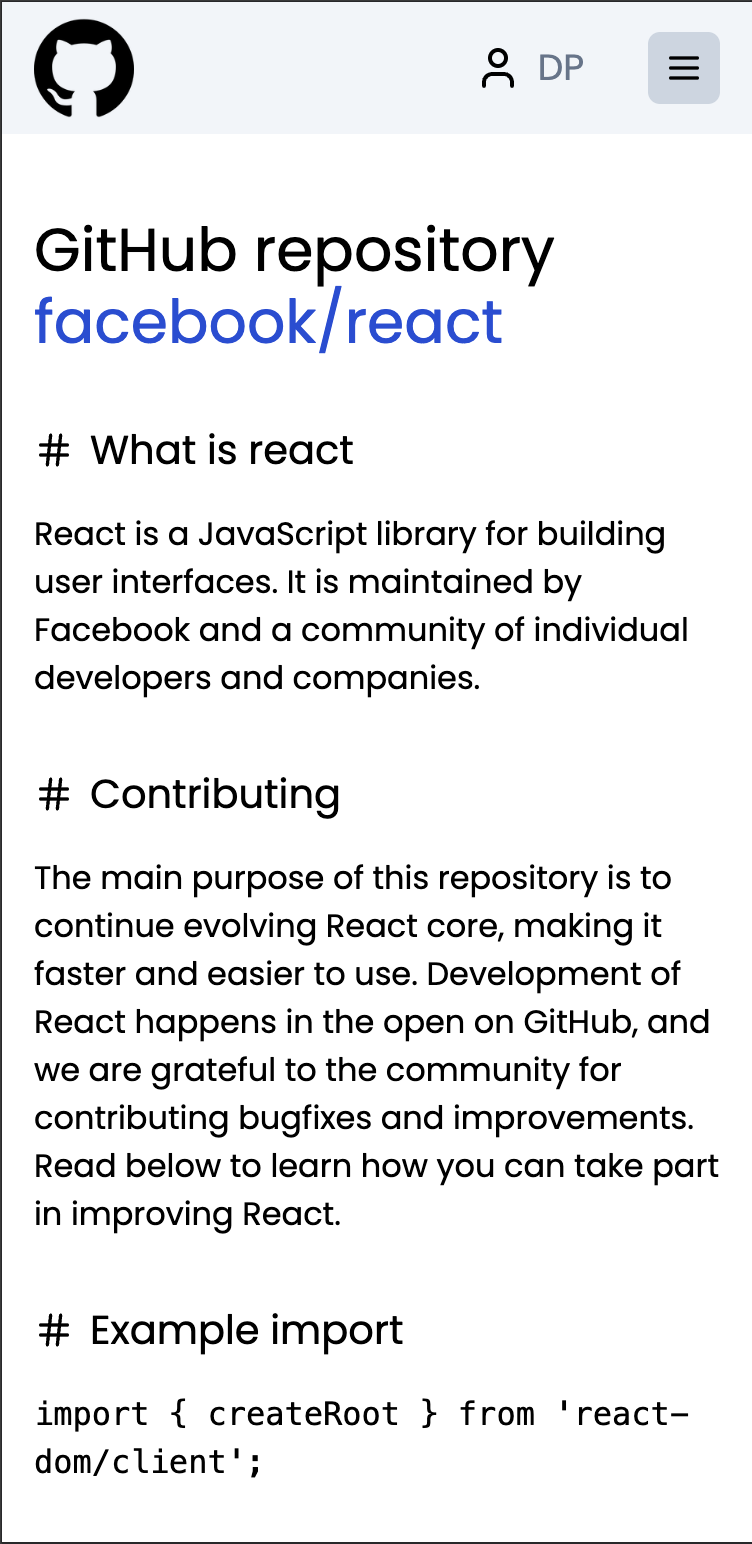
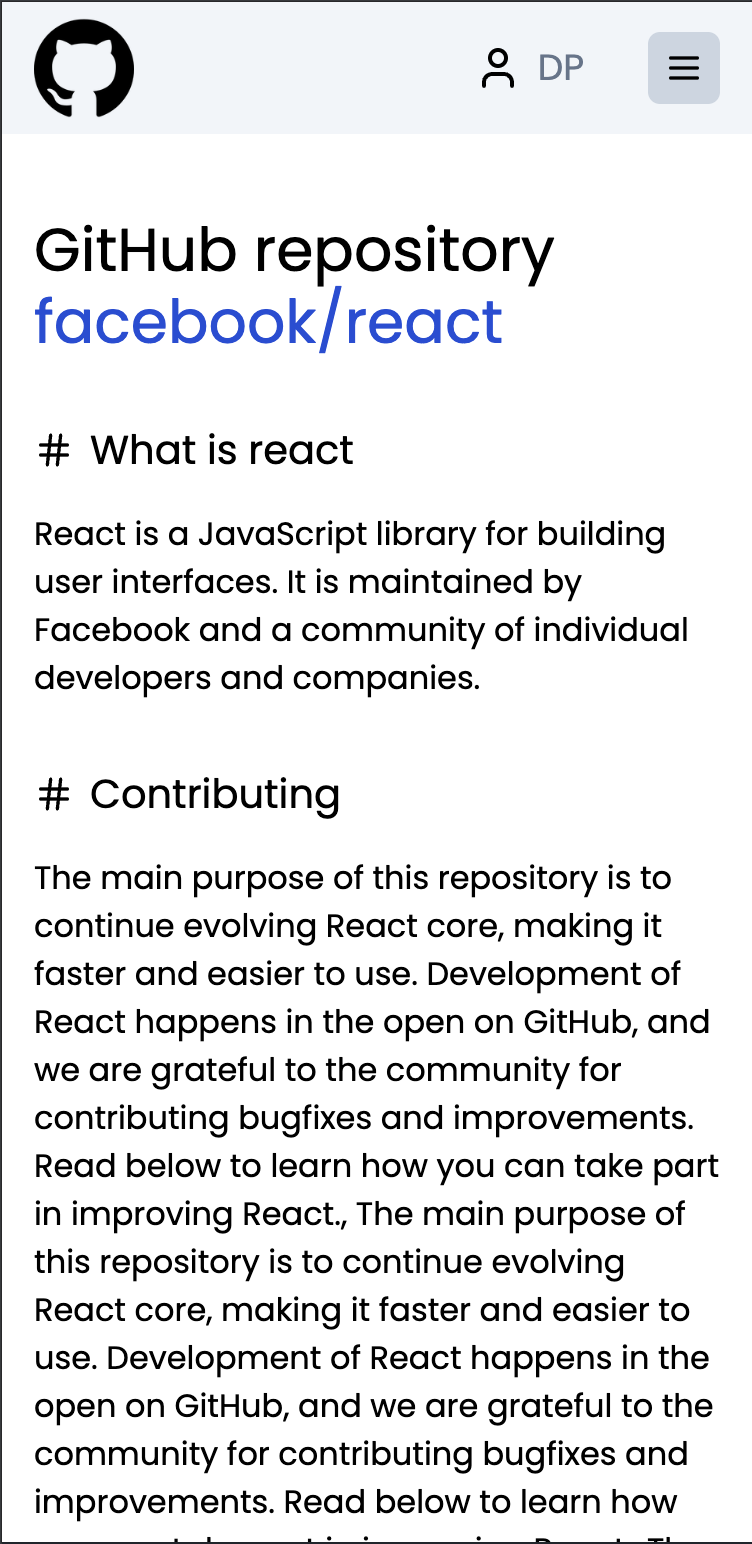
update requirements, data and screenshots

Changed region(s): [[0.0306, 0.7772, 0.9481, 1.0]]

diff --git a/src/data/index.ts b/src/data/index.ts
@@ -20,11 +20,16 @@ export const repository = [
 	{
 		title: 'Contributing',
 		content:
-			'The main purpose of this repository is to continue evolving React core, making it faster and easier to use. Development of React happens in the open on GitHub, and we are grateful to the community for contributing bugfixes and improvements. Read below to learn how you can take part in improving React.'
+			'The main purpose of this repository is to continue evolving React core, making it faster and easier to use. Development of React happens in the open on GitHub, and we are grateful to the community for contributing bugfixes and improvements. Read below to learn how you can take part in improving React., The main purpose of this repository is to continue evolving React core, making it faster and easier to use. Development of React happens in the open on GitHub, and we are grateful to the community for contributing bugfixes and improvements. Read below to learn how you can take part in improving React., The main purpose of this repository is to continue evolving React core, making it faster and easier to use. Development of React happens in the open on GitHub, and we are grateful to the community for contributing bugfixes and improvements. Read below to learn how you can take part in improving React. '
 	},
 	{
 		title: 'Example import',
 		content: "import { createRoot } from 'react-dom/client';"
+	},
+	{
+		title: 'Next.js',
+		content:
+			'Next.js is a React framework that provides a way to build server-rendered applications with React with ease. It handles the hard parts of building a production-grade React application, such as rendering, routing, and bundling. '
 	}
 ];
 
@@ -43,5 +48,13 @@ export const sidebarItems = [
 	{
 		title: 'Top Contriburors',
 		items: ['DaliborPan', 'Haaxor1798', 'grygy']
+	},
+	{
+		title: 'Top Languages',
+		items: ['TypeScript', 'JavaScript', 'C#']
+	},
+	{
+		title: 'Top Topics',
+		items: ['react', 'nextjs', 'javascript']
 	}
 ];

diff --git a/README.md b/README.md
@@ -17,6 +17,7 @@ There are attached screenshots of the final solution you need to achieve below.
 - Only the left sidebar and main content are present on a tablet - the right sidebar is hidden.
 - Only the main content is shown on mobile - both the left and right sidebar are hidden.
 - The top navigation is also collapsed into a hamburger menu on both tablet and mobile. Clicking on the menu **doesn't** show any dropdown or anything else. The page is supposed to be completely non-interactive.
+- The top navigation must be always visible even when scrolling down the page. The same applies for the left and right sidebar - both must stay visible while scrolling. Moreover, the left sidebar must be scrollable as well. See attached screenshots for reference.
 - Basic accessibility principles must be followed, especially using HTML5 semantic tags.
 - Your solution does not need to have the same dimensions per pixel, spacing, etc., as the attached screenshot but must have the same layout of elements.
 - Decompose your solution into components, which you keep in the `./src/components` directory. Use accurate naming.
@@ -64,6 +65,10 @@ There are attached screenshots of the final solution you need to achieve below.
 ### Desktop
 
 ![result](desired-result.png)
+
+### Desktop scrolled down
+
+![result](desired-result-scrolled.png)
 
 ### Tablet
 
